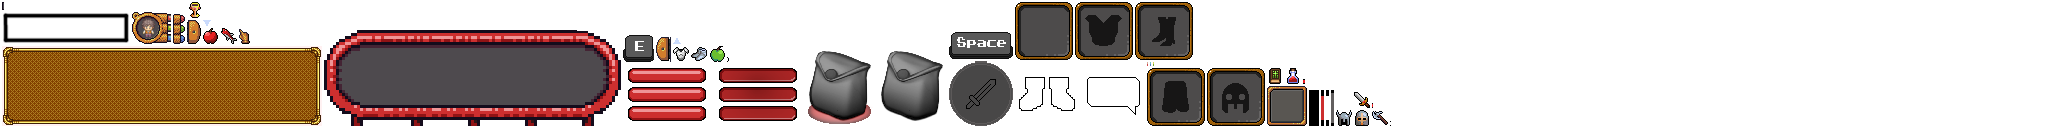
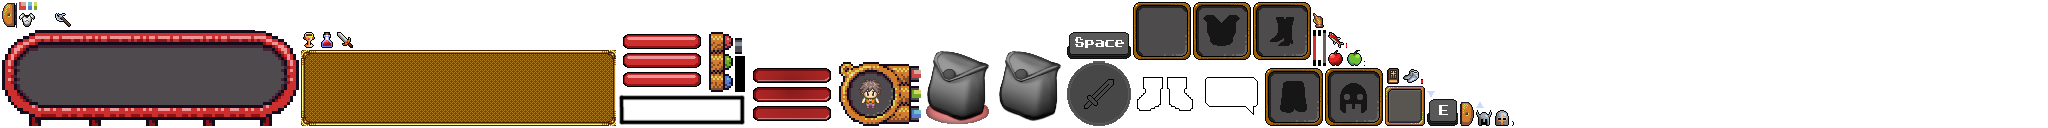
inseriti dialog, menu and inventory. Bisgona mettere a posto gli assets e il portale

diff --git a/core/src/com/mygdx/game/ui/PlayerStatus.java b/core/src/com/mygdx/game/ui/PlayerStatus.java
@@ -32,7 +32,7 @@ class PlayerStatus extends Table {
         //PlayerStatus table
         add(new Image(skin.getDrawable("ps_left")));
         add(bars).expandX().fillX();
-        add(new Image(skin.getDrawable("ps_right")));
+        add(new Image(skin.getDrawable("ps_end")));
     }
 
     void setHealth(final float value){
